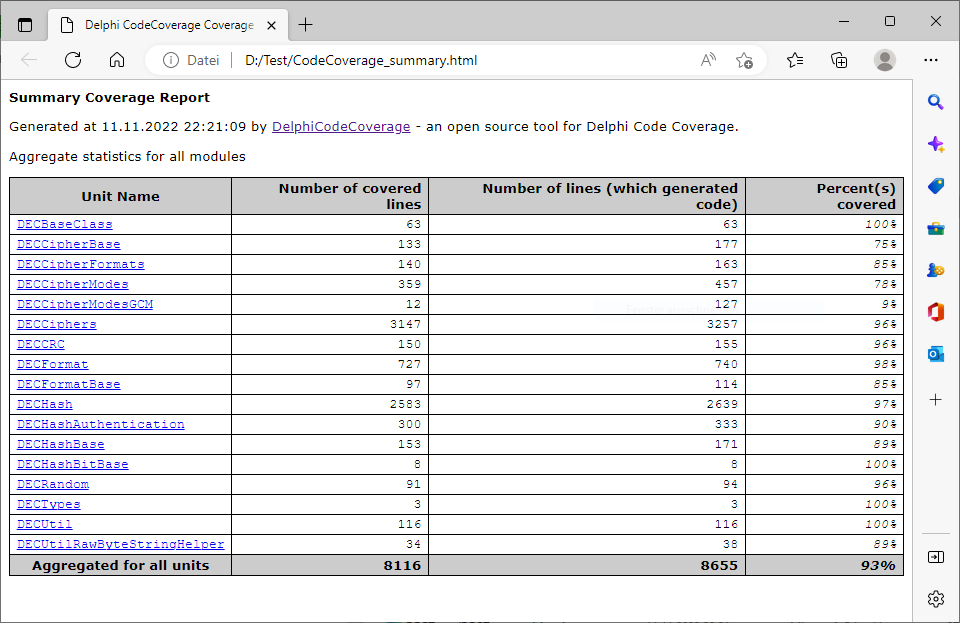
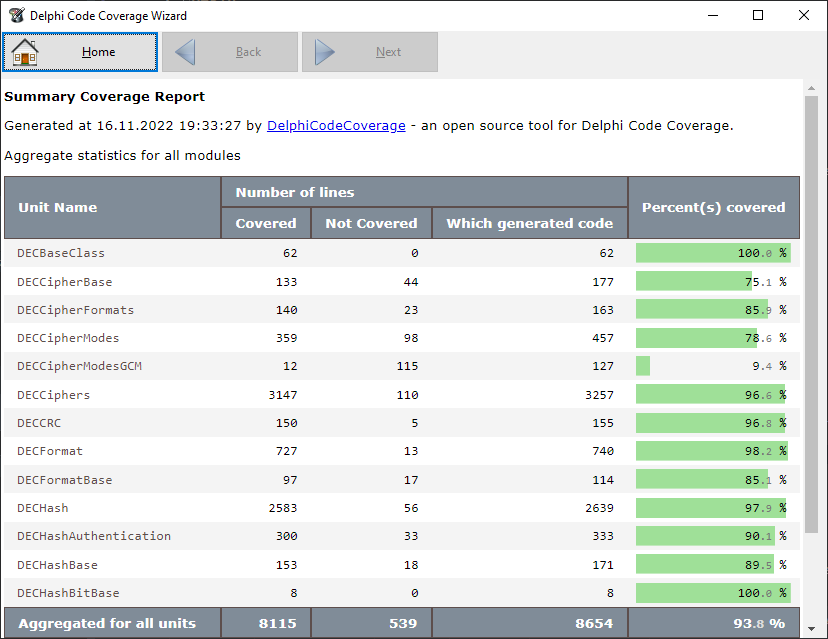
Updated screenshots and added another one

diff --git a/README.md b/README.md
@@ -1,6 +1,6 @@
-# Delphi Code Coverage Wizard
+# Delphi Code Coverage Wizard Plus
 
-## What is Delphi Code Coverage Wizard?
+## What is Delphi Code Coverage Wizard Plus?
 Delphi Code Coverage Wizard is a GUI which makes running the command line based 
 code coverage tool easier. 
 
@@ -69,3 +69,4 @@ versions/profiles it finds on your computer.
 ![Some screen of the wizard](/Screenshots/Wizard2.PNG)
 ![Start screen of the generated HTML output](/Screenshots/Output1.PNG)
 ![View of a unit (blue lines are not covered yet)](/Screenshots/Output2.PNG)   
+![View of a unit 2 (top with the unit's summary)](/Screenshots/Output2.PNG)   
